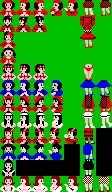
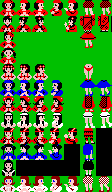
working on plank break stage

diff --git a/assets/convert_girl_sprites.py b/assets/convert_girl_sprites.py
@@ -16,7 +16,7 @@ def generate_mask_and_image(img,rgbmask):
     return mask,img
 
 dump = True
-max_level = 1 # TEMP
+max_level = 12
 
 def doit():
     sprites_dir = "../sprites"
@@ -42,6 +42,7 @@ def doit():
     bin_files = []
     for stage in range(1,max_level+1):
         for girl_frame,gfn in enumerate(frame_name):
+            print("Processing stage {}, frame {}".format(stage,girl_frame))
             y = (stage-1)*16
             x = girl_frame*16
             img_frame.paste(img,(-x,-y))

diff --git a/assets/convert_sprites.py b/assets/convert_sprites.py
@@ -781,7 +781,7 @@ bitplanelib.palette_image2raw("panel.png","{}/panel.bin".format(sprites_dir),
 
 process_tiles("sprites.json",os.path.join(source_dir,"other_bobs.s"))
 
-#process_player_tiles()
+process_player_tiles()
 
 #process_girls()
 
